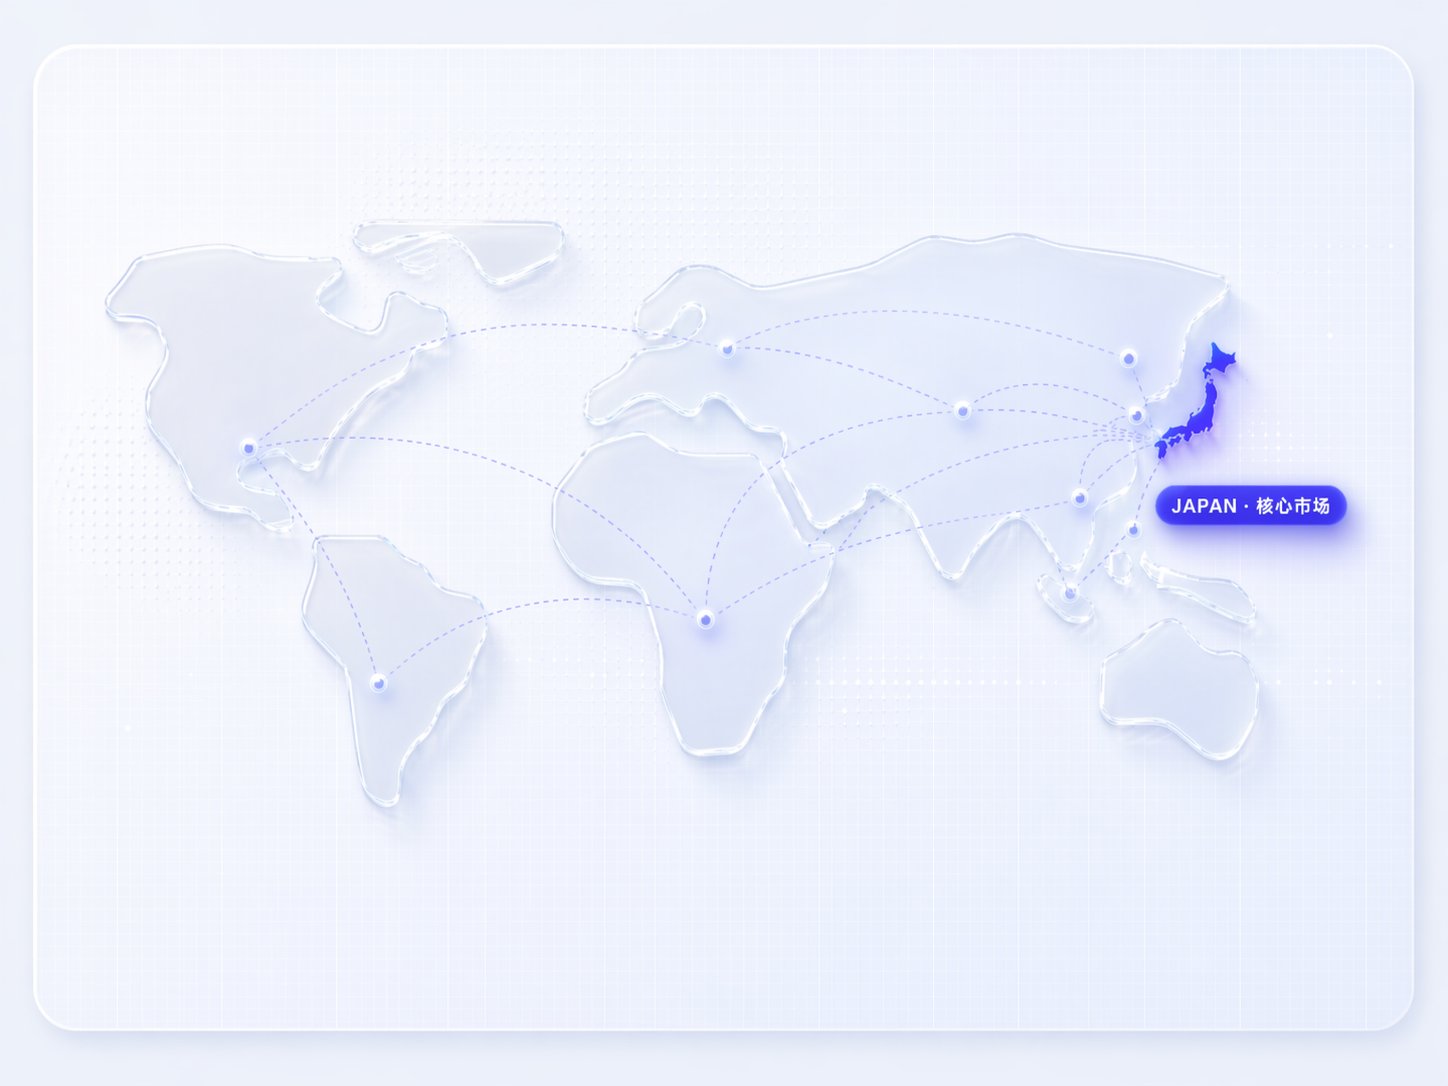
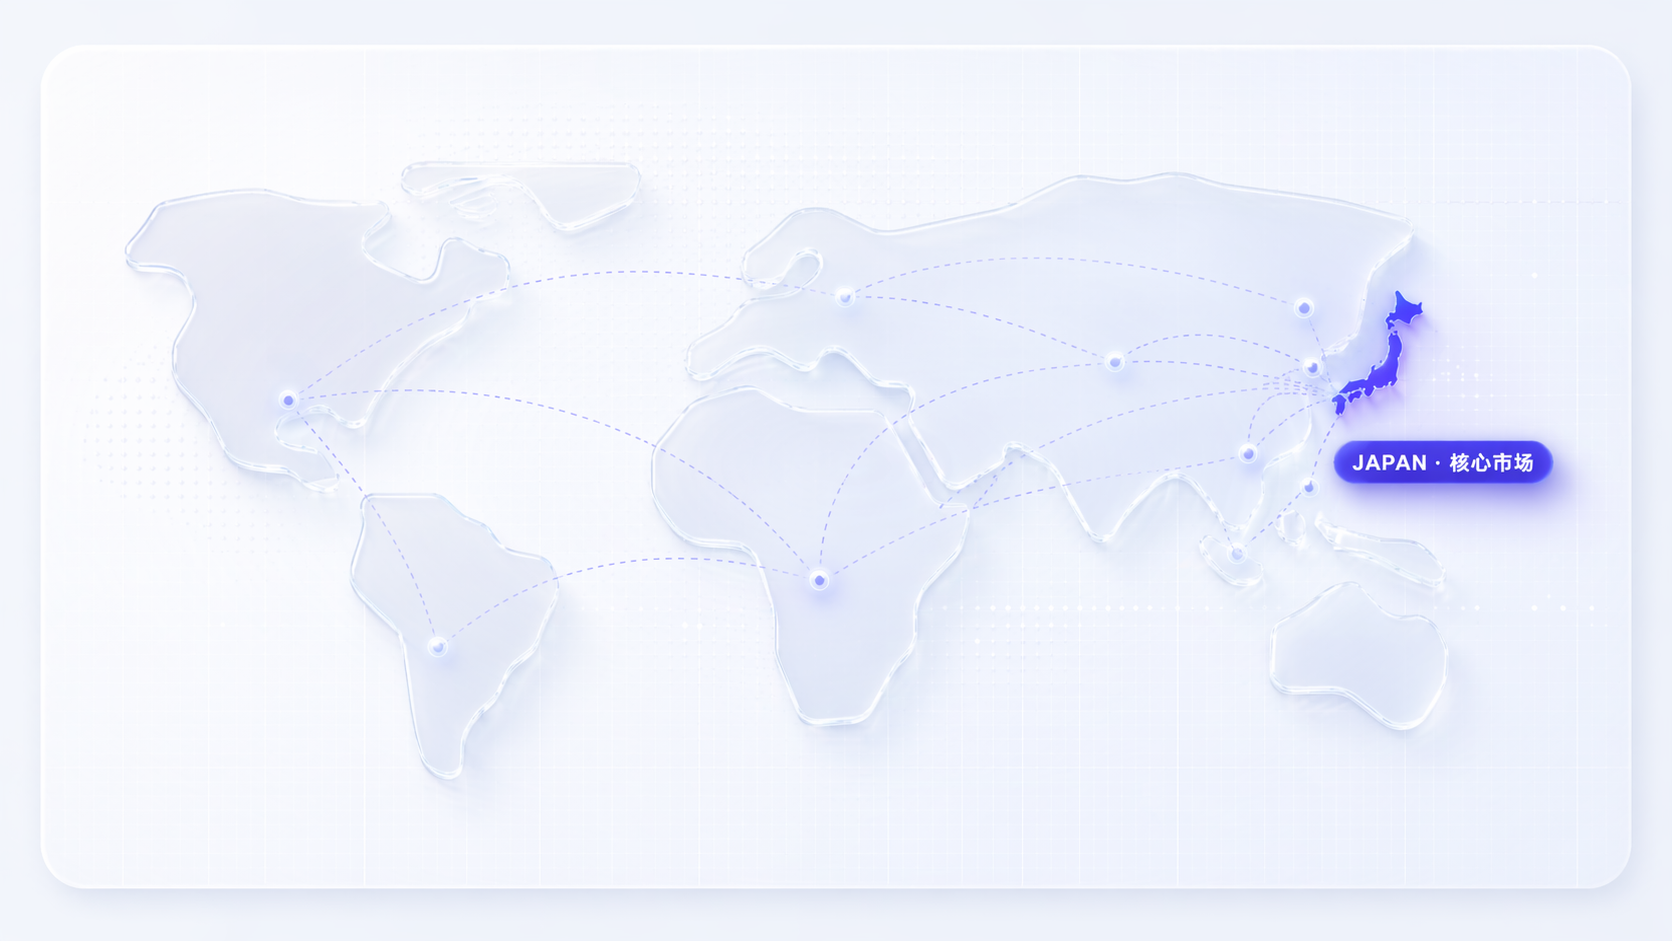
Reverted to commit 34b465d3d4fcdd8d73fc35564aad430d3cb3c548

diff --git a/src/pages/JapanFocus.tsx b/src/pages/JapanFocus.tsx
@@ -613,20 +613,21 @@ export default function JapanFocus() {
         <ScreenInner>
           <ScreenTitle>日本核心市场深耕</ScreenTitle>
           
-          <div className="flex flex-col gap-8 sm:gap-10 mt-4 flex-1 min-h-0">
+          <div className="flex flex-col gap-4 sm:gap-5 mt-4 flex-1 min-h-0">
             {/* 上:世界地图 + 日本高亮 */}
             <div
-              className="rounded-2xl overflow-hidden flex items-center justify-center mx-auto w-full max-w-6xl h-[42vh] sm:h-[48vh] max-h-[480px]"
+              className="rounded-2xl overflow-hidden glass-card flex items-center justify-center mx-auto w-full max-w-4xl h-[42vh] sm:h-[46vh] max-h-[460px]"
+              style={CARD}
             >
               <img
                 src={japanWorldMap}
                 alt="日本核心市场 — 全球连接示意图"
-                className="w-full h-full object-cover scale-[1.12]"
+                className="w-full h-full object-cover scale-[1.06]"
                 loading="lazy"
               />
             </div>
             {/* 下:4 个简化信息卡 */}
-            <div className="grid grid-cols-2 lg:grid-cols-4 gap-3 sm:gap-4 shrink-0 w-full max-w-6xl mx-auto">
+            <div className="grid grid-cols-2 lg:grid-cols-4 gap-3 sm:gap-4 shrink-0">
               {[
                 { icon: Target, t: "重点布局", d: "聚焦日本核心战略市场" },
                 { icon: Users, t: "理解用户", d: "把握本地偏好与习惯" },
